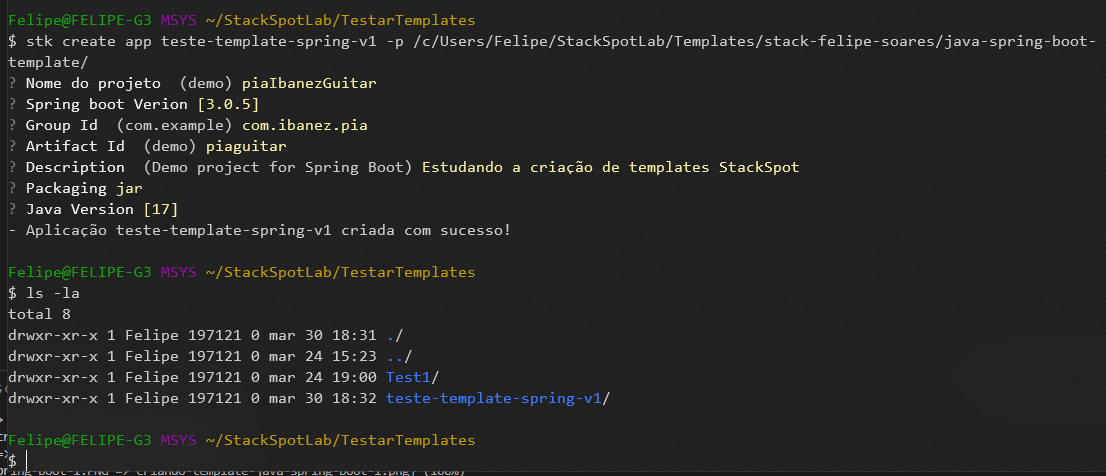
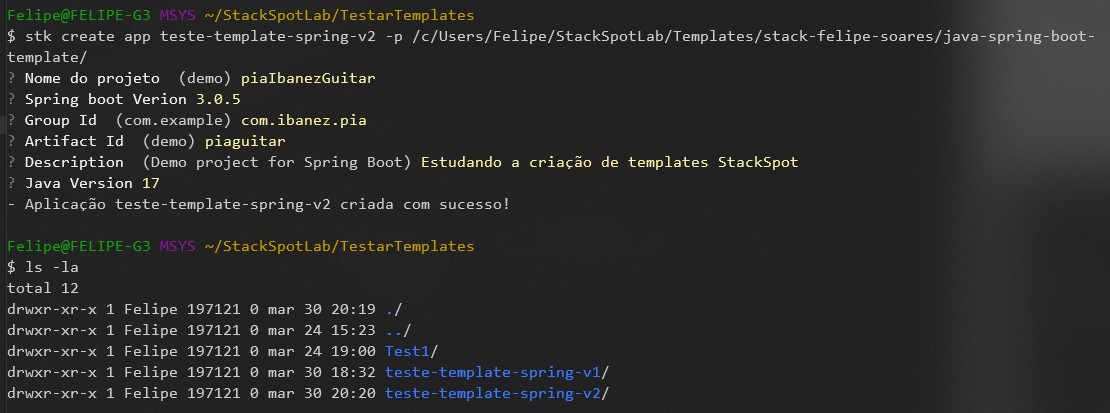
Template testado e funcionou certinho

Changed region(s): [[0.0, 0.0, 1.0, 0.523], [0.0, 0.5521, 0.5533, 1.0]]

diff --git a/READM.md b/READM.md
@@ -149,6 +149,10 @@ Com o template criado, vamos testar se ele esta funcionando.
   stk create app java-spring-boot-app -p java-spring-boot-template
   ```
 
-![testando-template-java-spring-boot](images/testando-template-java-spring-1.png)
+![testando-template-java-spring-boot1](images/testando-template-java-spring-1.png)
+
+![testando-template-java-spring-boot-2](images/testando-template-java-spring-2.png)
+
+
 
 [Voltar ao inicio!!](#stackspot)
